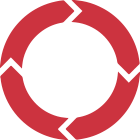
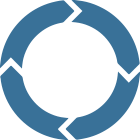
added participate

diff --git a/lib/main.css b/lib/main.css
@@ -8,7 +8,7 @@ header {
   right: 0;
   z-index: 9999;
   height: 60px;
-  background: #00a0b0; }
+  background: #dd5826; }
   header .logo {
     margin: 14px 30px 0 0;
     height: 32px;
@@ -22,7 +22,7 @@ header {
     bottom: 0;
     left: 0;
     right: 0;
-    background-color: #00a0b0;
+    background-color: #dd5826;
     padding: 20px;
     z-index: 0;
     display: none; }
@@ -44,7 +44,7 @@ header {
     cursor: pointer; }
     header .menu-btn:hover {
       background-color: #fff;
-      color: #00a0b0; }
+      color: #dd5826; }
     header .menu-btn.menu-btn-donate {
       border: solid 2px #fff; }
     header .menu-btn.menu-btn-hamburger {
@@ -71,7 +71,7 @@ header {
       -o-transition: background 300ms ease;
       transition: background 300ms ease; }
       header.isFixed {
-        background: #00a0b0; }
+        background: #dd5826; }
       header .logo {
         margin: 10px 40px 0 0;
         height: 38px; }
@@ -93,7 +93,7 @@ header {
         display: none; }
       header .menu-btn.isActive {
         background-color: #fff;
-        color: #00a0b0; } }
+        color: #dd5826; } }
   @media (min-width: 992px) {
     header {
       height: 78px; }
@@ -142,7 +142,7 @@ section.section {
     font-size: 1.2em; }
 
 .section-purpose {
-  background-color: #00727d; }
+  background-color: #b4461c; }
   .section-purpose .section-lead {
     color: #fff; }
 
@@ -171,13 +171,13 @@ section.section {
     border-radius: 6px;
     cursor: text; }
   .purpose-box.purpose-box-orange .purpose-percentage {
-    color: #008997; }
+    color: #dd5826; }
   .purpose-box.purpose-box-orange .purpose-text {
-    background-color: #008997; }
+    background-color: #dd5826; }
   .purpose-box.purpose-box-blue .purpose-percentage {
-    color: #008997; }
+    color: #dd5826; }
   .purpose-box.purpose-box-blue .purpose-text {
-    background-color: #008997; }
+    background-color: #dd5826; }
 
 .section-process {
   background-color: #fff; }
@@ -189,7 +189,7 @@ section.section {
     width: 100px;
     height: 100px;
     display: inline-block;
-    background-color: #cc333f;
+    background-color: #397198;
     line-height: 100px;
     text-align: center;
     border-radius: 100px; }
@@ -213,7 +213,7 @@ section.section {
   width: 220px; }
   .progress-box .progress-number {
     font-size: 70px;
-    color: #00a0b0;
+    color: #dd5826;
     font-weight: 300; }
   .progress-box .progress-text {
     font-weight: 700;
@@ -223,3 +223,36 @@ section.section {
   @media (min-width: 768px) {
     .progress-box .process-text {
       margin-bottom: 0; } }
+
+.section-participate {
+  background-color: #397198; }
+  .section-participate .section-lead {
+    color: #fff; }
+  .section-participate .section-participate-contain {
+    max-width: 800px;
+    margin: 0 auto; }
+    .section-participate .section-participate-contain .section-participate-box {
+      border: solid 3px #2b5573;
+      background-color: #326385;
+      border-radius: 10px;
+      color: #fff;
+      padding: 20px;
+      text-align: center;
+      margin-bottom: 20px;
+      -webkit-transition: background 200ms ease, border 200ms ease;
+      -moz-transition: background 200ms ease, border 200ms ease;
+      -ms-transition: background 200ms ease, border 200ms ease;
+      -o-transition: background 200ms ease, border 200ms ease;
+      transition: background 200ms ease, border 200ms ease; }
+      .section-participate .section-participate-contain .section-participate-box .section-participate-box-title {
+        font-weight: 700;
+        margin-bottom: 10px;
+        font-size: 30px; }
+      .section-participate .section-participate-contain .section-participate-box .section-participate-box-content {
+        font-size: 16px; }
+        .section-participate .section-participate-contain .section-participate-box .section-participate-box-content span {
+          font-weight: 700; }
+      .section-participate .section-participate-contain .section-participate-box:hover {
+        background-color: #dd5826;
+        border-color: #b4461c;
+        cursor: pointer; }

diff --git a/lib/main.scss b/lib/main.scss
@@ -1,5 +1,5 @@
-$color-primary: #00A0B0;
-$color-accent: #CC333F;
+$color-primary: #DD5826;
+$color-accent: #397198;
 
 body {
   font-family: 'Open Sans', sans-serif;
@@ -242,18 +242,18 @@ section.section {
   
   &.purpose-box-orange {
     .purpose-percentage {
-      color: darken($color-primary, 5%);
+      color: $color-primary;
     }
     .purpose-text {
-      background-color: darken($color-primary, 5%);
+      background-color: $color-primary;
     }
   }
   &.purpose-box-blue {
     .purpose-percentage {
-      color: darken($color-primary, 5%);
+      color: $color-primary;
     }
     .purpose-text {
-      background-color: darken($color-primary, 5%);
+      background-color: $color-primary;
     }
   }
 }
@@ -320,6 +320,54 @@ section.section {
     }
   }
   
+}
+
+.section-participate {
+  background-color: $color-accent;
+  
+  .section-lead {
+    color: #fff;
+  }
+  
+  .section-participate-contain {
+    max-width: 800px;
+    margin: 0 auto;
+    
+    .section-participate-box {
+      border: solid 3px darken($color-accent, 10%);
+      background-color: darken($color-accent, 5%);
+      border-radius: 10px;
+      color: #fff;
+      padding: 20px;
+      text-align: center;
+      margin-bottom: 20px;
+      -webkit-transition: background 200ms ease, border 200ms ease;
+      -moz-transition: background 200ms ease, border 200ms ease;
+      -ms-transition: background 200ms ease, border 200ms ease;
+      -o-transition: background 200ms ease, border 200ms ease;
+      transition: background 200ms ease, border 200ms ease;
+      
+      .section-participate-box-title {
+        font-weight: 700;
+        margin-bottom: 10px;
+        font-size: 30px;
+      }
+      
+      .section-participate-box-content {
+        font-size: 16px;
+        
+        span {
+          font-weight: 700;
+        }
+      }
+      
+      &:hover {
+        background-color: $color-primary;
+        border-color: darken($color-primary, 10%);
+        cursor: pointer;
+      }
+    }
+  }
 }
 
 

diff --git a/index.php b/index.php
@@ -215,22 +215,40 @@
     </div>
 </section>
 
-<section class="section" id="participate">
+<section class="section section-participate" id="participate">
     <div class="container">
-        <div class="row">
-            <div class="col-sm-6">
-                <button class="btn btn-primary btn-block btn-lg">
-                    DONATE
-                </button>
-                $5.12 will feed a child for an entire weekend.
-                <br/>
-                $20.48 will feed a child for a month.
-            </div>
-            <div class="col-sm-6">
-                <button class="btn btn-primary btn-block btn-lg">
-                    SIGN-UP
-                </button>
-                sign your school up for the weekend backpack program and help save lives.
+        <div class="section-icon">
+            <img src="img/section-participate.png" alt="">
+        </div>
+        <div class="section-lead">
+            <span>PARTICIPATE</span><br>
+            Something about people participating - one sentence
+        </div>
+        
+        <div class="section-participate-contain">
+            <div class="row">
+                <div class="col-sm-6">
+                    <div class="section-participate-box">
+                        <div class="section-participate-box-title">
+                            DONATE
+                        </div>
+                        <div class="section-participate-box-content">
+                            <span>$5.12</span> will feed a child for an entire weekend.
+                            <br/>
+                            <span>$20.48</span> will feed a child for a month.
+                        </div>
+                    </div>
+                </div>
+                <div class="col-sm-6">
+                    <div class="section-participate-box">
+                        <div class="section-participate-box-title">
+                            SIGN-UP
+                        </div>
+                        <div>
+                            sign your school up for the weekend backpack program and help save lives.
+                        </div>
+                    </div>
+                </div>
             </div>
         </div>
     </div>
